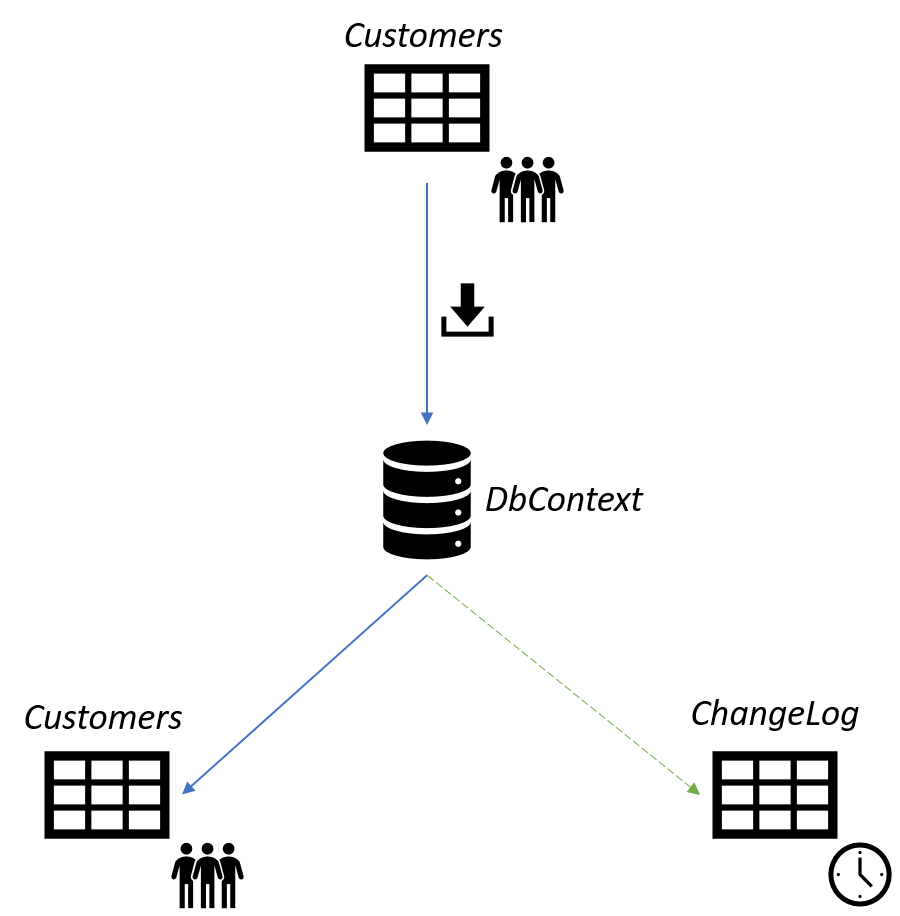
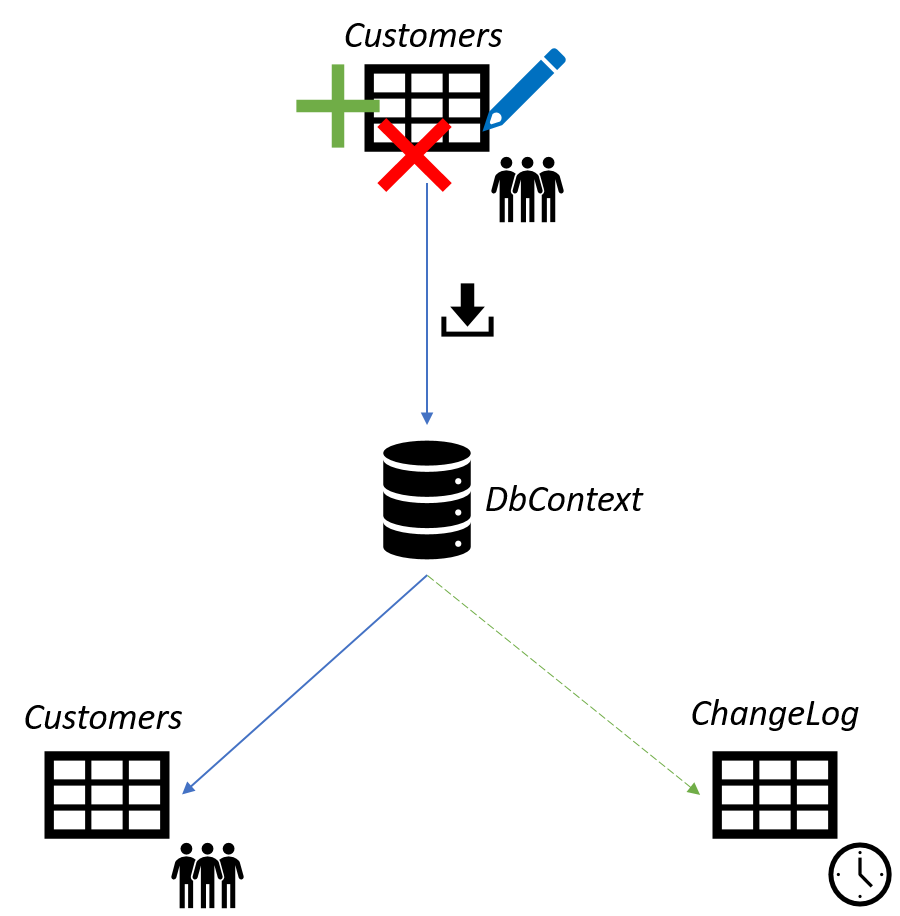
Updated OnlineShopContext.

Changed region(s): [[0.3111, 0.0611, 0.4978, 0.214], [0.5289, 0.0306, 0.6222, 0.1528]]

diff --git a/DiR.EfChangeLog/Contexts/OnlineShopContext.cs b/DiR.EfChangeLog/Contexts/OnlineShopContext.cs
@@ -58,19 +58,21 @@ namespace DiR.EfChangeLog.Contexts
         private void WriteChangeLog()
         {
             string currentUser = "John Wayne"; // Actually you would use here the user id from the current HttpContext / Thread.
-            DateTime currentDateTime = DateTime.Now;            
-            var dbEntityEntries = ChangeTracker.Entries<IHaveChangeLog>();            
+            DateTime currentDateTime = DateTime.Now;
+            var dbEntityEntries = ChangeTracker.Entries<IHaveChangeLog>()
+                                               .Where(e => e.State != EntityState.Detached
+                                                        && e.State != EntityState.Unchanged);
 
             foreach (var item in dbEntityEntries)
             {
                 if (item.State == EntityState.Added)
                 {
                     item.Entity.CreatedAtAuthor = currentUser;
-                    item.Entity.CreatedAt = currentDateTime;                    
+                    item.Entity.CreatedAt = currentDateTime;
                 }
 
                 item.Entity.LastModifiedAuthor = currentUser;
-                item.Entity.LastModifiedAt = currentDateTime;                
+                item.Entity.LastModifiedAt = currentDateTime;
             }
         }
 
